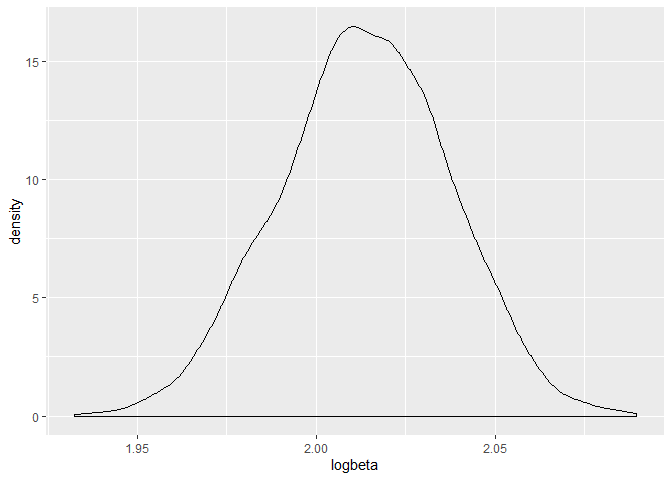
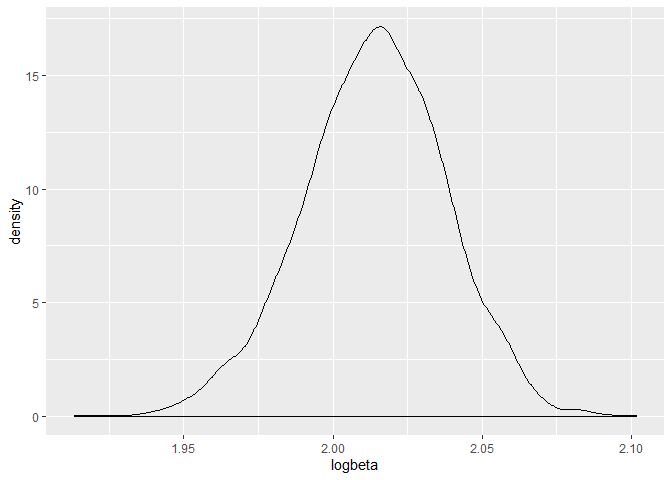
a little change

diff --git a/p8106_hw6_sl4660.md b/p8106_hw6_sl4660.md
@@ -186,9 +186,9 @@ cv_df4=cv_df3 %>%
     ## # A tibble: 3 x 2
     ##   model mean_rmse
     ##   <fct>     <dbl>
-    ## 1 rm1        276.
-    ## 2 rm3        290.
-    ## 3 rm2        335.
+    ## 1 rm1        274.
+    ## 2 rm3        289.
+    ## 3 rm2        334.
 
 The smaller rmse is, the better the model is. So the first model I
 created using babysex, bhead,blength,delwt,gaweeks,mrace, parity,smoken
@@ -248,8 +248,7 @@ lower_limit=quantile(bootsrap_results$adj.r.squared,probs=0.025)
 higher_limit=quantile(bootsrap_results$adj.r.squared,probs=0.975)
 ```
 
-So the 95% confidence interval of adjusted \({\widehat r}^{2}\) is
-(0.8932499,0.9271676)
+So the 95% confidence interval of adjusted r^2 is (0.8935611,0.9270436)
 
 ``` r
 compute_logbeta = function(df) {
@@ -280,12 +279,12 @@ ggplot(result3,aes(x =logbeta)) + geom_density()
 
 ![](p8106_hw6_sl4660_files/figure-gfm/unnamed-chunk-17-1.png)<!-- -->
 
-The distributio of \(\log_(\beta_0 \times \beta_1)\)is almost normal
+The distributio of log (beta1\*beta2) is almost normal
 
 ``` r
 lower_limit1=quantile(result3$logbeta,probs=0.025)
 higher_limit2=quantile(result3$logbeta,probs=0.975)
 ```
 
-So the 95% confidence interval of adjusted
-\(log(\widehat \beta_0\times\widehat \beta_1)\) is (1.9665399,2.0588602)
+So the 95% confidence interval of log (beta1\*beta2) is
+(1.9641809,2.0591195)
